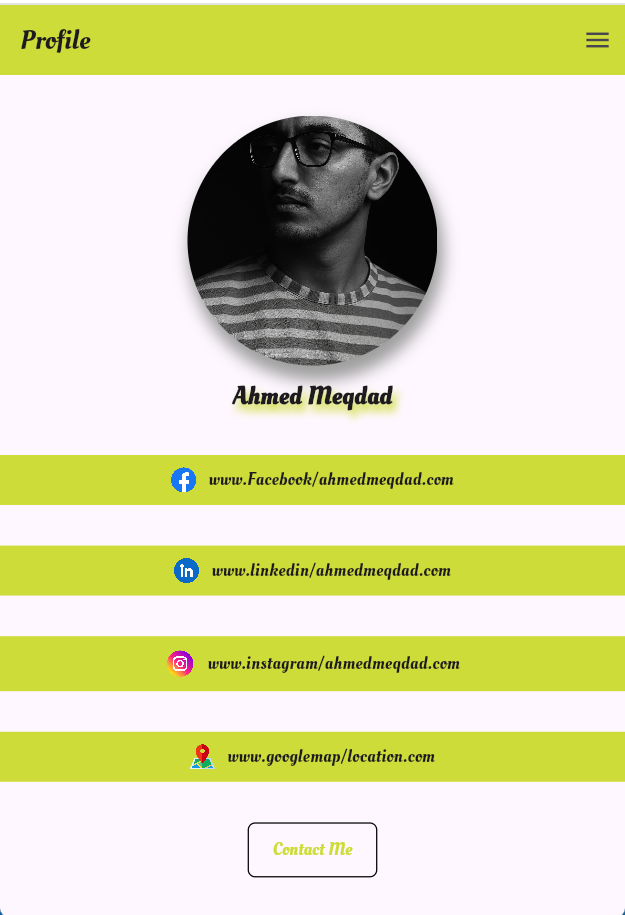
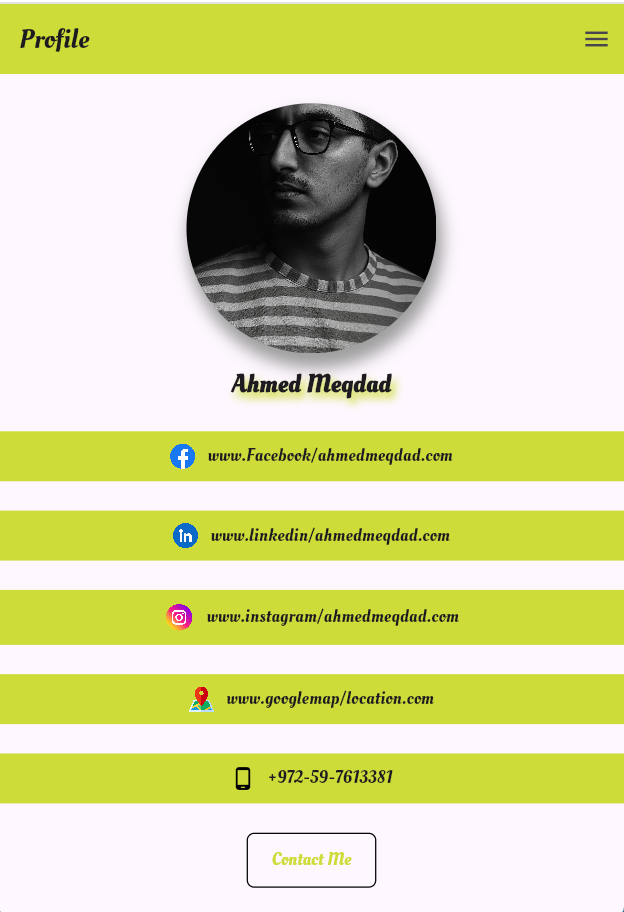
add phone link to other links

diff --git a/lib/main.dart b/lib/main.dart
@@ -125,6 +125,22 @@ class MyApp extends StatelessWidget {
                 ],
               ),
             ),
+            Container(
+              padding: EdgeInsets.symmetric(vertical: 10),
+              color: Colors.lime,
+              child: Row(
+                spacing: 10,
+                mainAxisAlignment: MainAxisAlignment.center,
+                children: [
+                  Icon(
+                    Icons.phone_android_rounded,
+                    color: Colors.black,
+                    size: 20,
+                  ),
+                  Text("+972-59-7613381"),
+                ],
+              ),
+            ),
             TextButton(
               onPressed: () {},
               child: Text("Contact Me", style: TextStyle(color: Colors.lime)),
